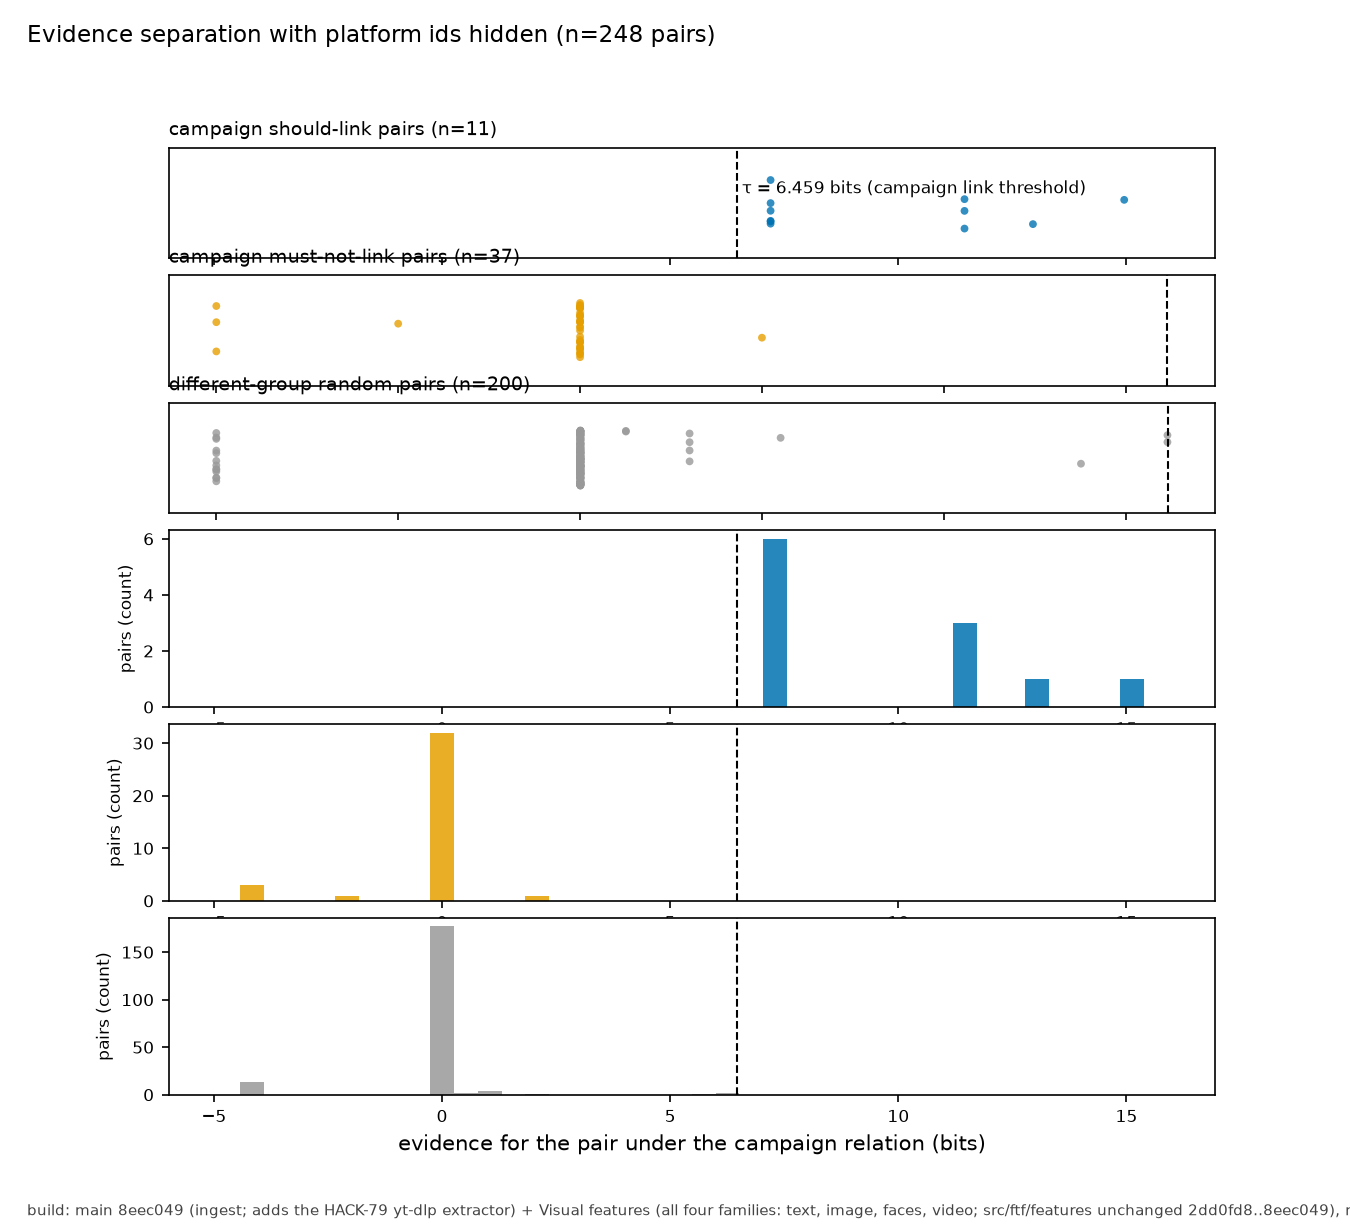
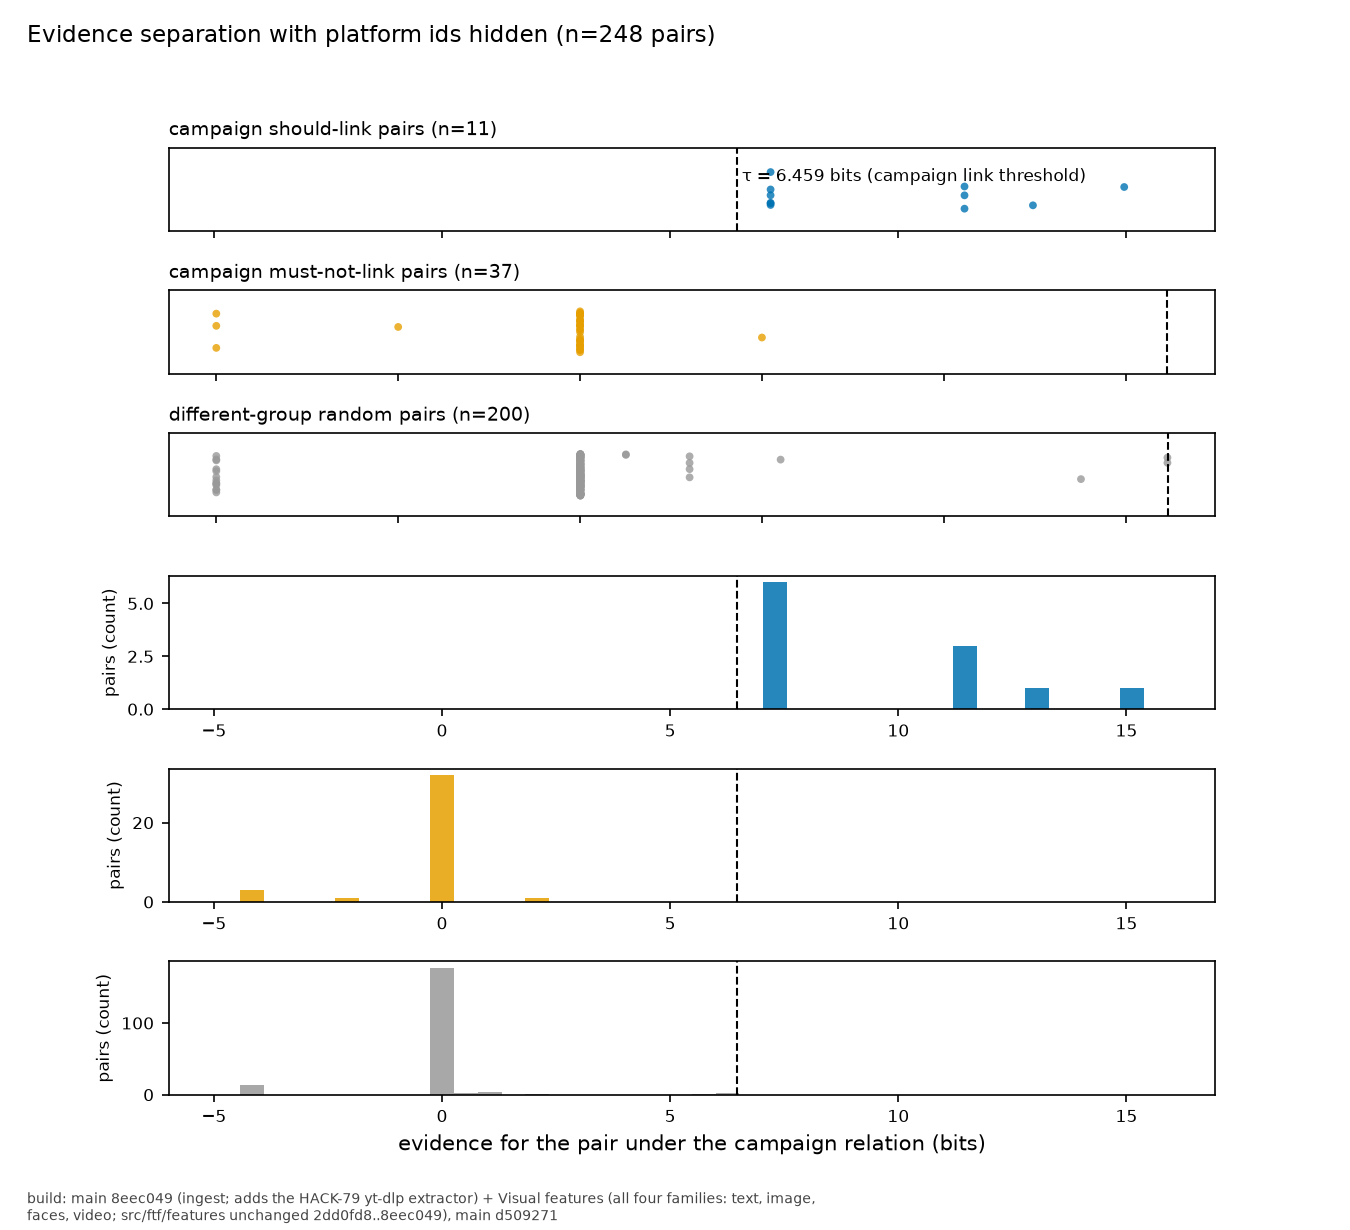
HACK-93 Figures: wrap footer, widen panel spacing

diff --git a/scripts/make_figures.py b/scripts/make_figures.py
@@ -13,6 +13,7 @@ from __future__ import annotations
 import argparse
 import json
 import random
+import textwrap
 from itertools import combinations
 from pathlib import Path
 
@@ -100,7 +101,7 @@ def evidence_separation(dataset: Path, labels: dict, out: Path, footer: str) -> 
     }
 
     fig = plt.figure(figsize=(9, 8.2), dpi=150, facecolor="white")
-    gs = fig.add_gridspec(6, 1, height_ratios=[1, 1, 1, 1.6, 1.6, 1.6], hspace=0.12)
+    gs = fig.add_gridspec(6, 1, height_ratios=[1, 1, 1, 1.6, 1.6, 1.6], hspace=0.55)
     strips = [fig.add_subplot(gs[i]) for i in range(3)]
     hists = [fig.add_subplot(gs[i + 3], sharex=strips[0]) for i in range(3)]
     rng_jit = random.Random(SEED)
@@ -128,7 +129,7 @@ def evidence_separation(dataset: Path, labels: dict, out: Path, footer: str) -> 
         f"Evidence separation with platform ids hidden (n={len(should) + len(must) + len(random_set)} pairs)",
         fontsize=11, x=0.02, ha="left",
     )
-    fig.text(0.02, 0.012, footer, fontsize=7, color="#444444")
+    fig.text(0.02, 0.008, "\n".join(textwrap.wrap(footer, 120)), fontsize=6.5, color="#444444")
     fig.savefig(out, dpi=150, facecolor="white")
     plt.close(fig)
     print(f"evidence: tau={tau} should={len(should)} must={len(must)} random={len(random_set)} -> {out}")
@@ -176,7 +177,7 @@ def baseline_vs_model(eval_dir: Path, out: Path, footer: str) -> None:
     ax.grid(alpha=0.3)
     ax.set_title(f"Baseline vs linker: E1 campaign pairs (n=11) and E2 leave-one-item-out (n=8)",
                  fontsize=10, loc="left")
-    fig.text(0.02, 0.012, footer, fontsize=7, color="#444444")
+    fig.text(0.02, 0.008, "\n".join(textwrap.wrap(footer, 120)), fontsize=6.5, color="#444444")
     fig.tight_layout(rect=(0, 0.03, 1, 1))
     fig.savefig(out, dpi=150, facecolor="white")
     plt.close(fig)
